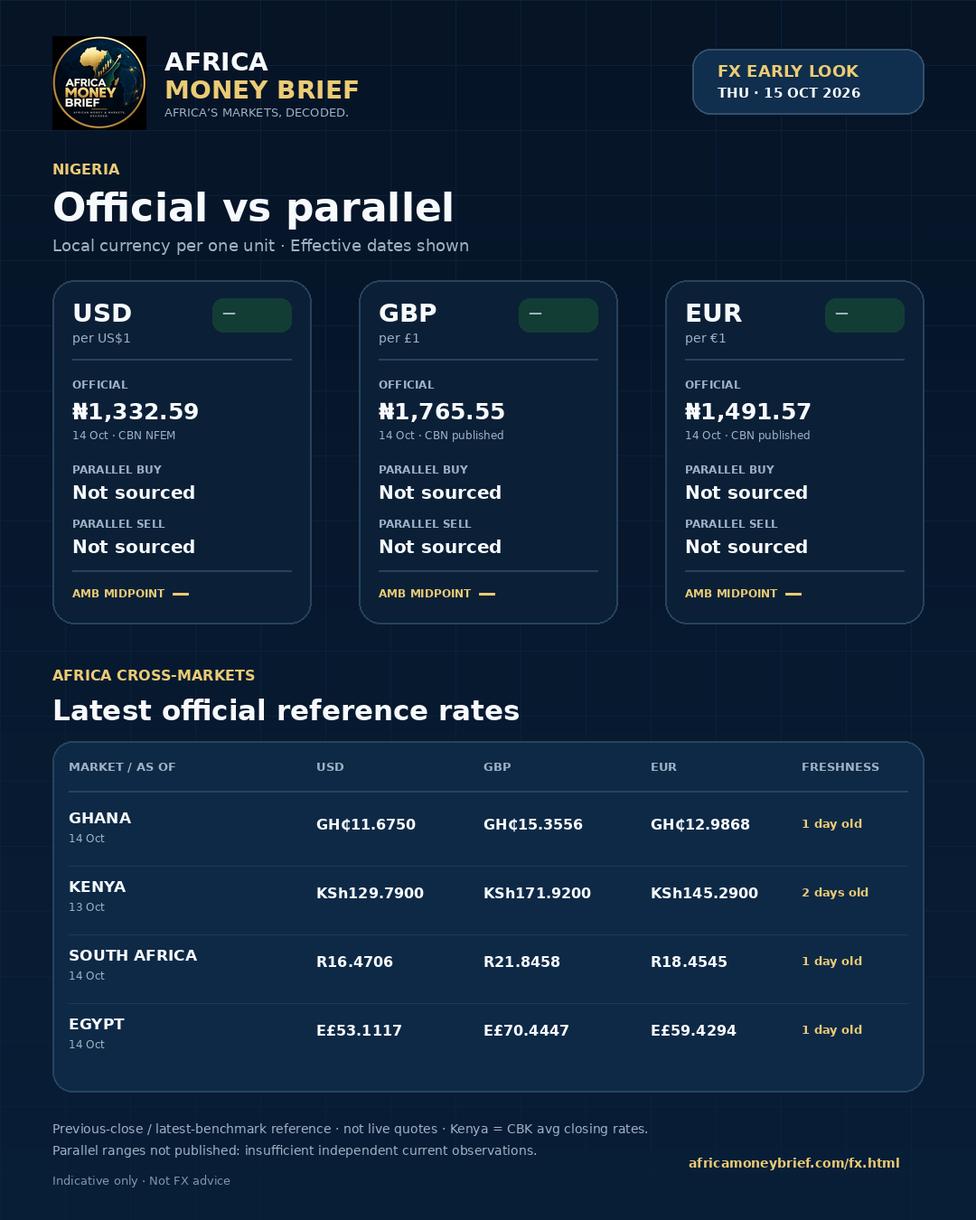
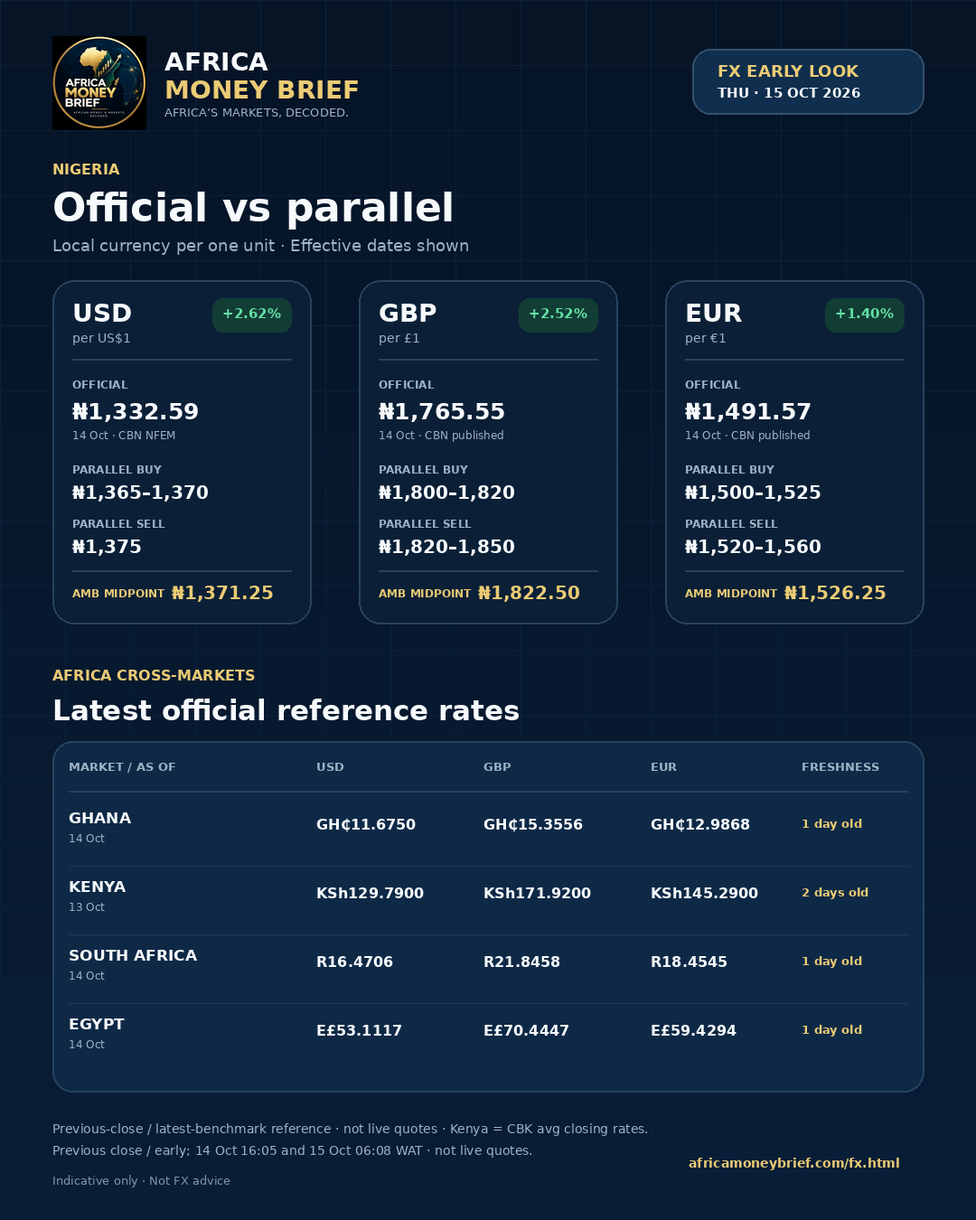
VALIDATED Early Look 2026-10-15

diff --git a/fx.html b/fx.html
@@ -4,11 +4,11 @@
 <script defer src="assets/privacy.js"></script>
 <meta charset="utf-8"><meta name="viewport" content="width=device-width,initial-scale=1"><meta name="description" content="Official and parallel exchange rates for Nigeria plus Ghana, Kenya, South Africa and Egypt, each with its effective date."><meta name="theme-color" content="#061426"><link rel="canonical" href="https://africamoneybrief.com/fx.html"><meta property="og:site_name" content="Africa Money Brief"><meta property="og:title" content="FX Markets | Africa Money Brief"><meta property="og:description" content="Official and parallel exchange rates for Nigeria plus Ghana, Kenya, South Africa and Egypt, each with its effective date."><meta property="og:image" content="https://africamoneybrief.com/assets/africa-money-brief-cover.png"><meta property="og:type" content="website"><meta name="twitter:card" content="summary_large_image"><title>FX Markets | Africa Money Brief</title><link rel="icon" type="image/png" href="assets/africa-money-brief-logo.png"><link rel="stylesheet" href="styles.css"><link rel="stylesheet" href="assets/redesign.css"></head><body><header><a class="logo brand-logo" href="index.html"><img src="assets/africa-money-brief-logo.png" alt="Africa Money Brief logo"><span>AFRICA <em>MONEY BRIEF</em><small>AFRICA’S MARKETS, DECODED.</small></span></a><nav><a class="" href="index.html">HOME</a><a class="active" href="fx.html">FX</a><a class="" href="capital-markets.html">CAPITAL MARKETS</a><a class="" href="money-rates.html">MONEY &amp; RATES</a><a class="" href="real-estate.html">REAL ESTATE</a><a class="" href="data.html">DATA</a><a class="" href="archive.html">ARCHIVE</a><a class="x" href="https://x.com/AMBriefDaily">Follow @AMBriefDaily ↗</a></nav></header>
 <main><section class="subhero"><div><p class="eyebrow">FX MARKETS</p><h1>Currencies.<br><i>Clearly decoded.</i></h1><p class="lead">Official rates, parallel markets, spreads, reserves and the policy forces moving African currencies.</p></div><div class="subhero-brand"><img src="assets/africa-money-brief-logo.png" alt="Africa Money Brief"><span>AFRICA’S MARKETS,<br><b>DECODED.</b></span></div></section>
-<div class="v2"><section class="section" style="padding-bottom:0"><!--AMB:early-latest--><div class="v2"><details id="early-look-2026-10-14" open><summary>14 Oct · Early Look (pre-market)</summary><section class="section"><p class="eyebrow">FX EARLY LOOK · 14 OCT 2026 · PRE-MARKET</p><p class="lead">Previous-close and latest-benchmark reference only; not live opening quotes. Each figure carries its own effective date.</p>
-<div class="tw"><table><thead><tr><th>Currency</th><th>Nigeria official</th><th>Parallel buy / sell</th><th>Premium</th></tr></thead><tbody><tr><td>USD</td><td>₦1,332.97 <small>(13 Oct, CBN selling)</small></td><td>₦1,365–1,375 / ₦1,375–1,390</td><td class="prem">+2.78%</td></tr><tr><td>GBP</td><td>₦1,766.06 <small>(13 Oct, CBN selling)</small></td><td>₦1,810–1,850 / ₦1,835–1,880</td><td class="prem">+3.62%</td></tr><tr><td>EUR</td><td>₦1,492.00 <small>(13 Oct, CBN selling)</small></td><td>₦1,500–1,550 / ₦1,530–1,590</td><td class="prem">+2.21%</td></tr></tbody></table></div>
-<p class="fine">Nigeria parallel-market ranges aggregate multiple independent previous-close/early observations from 13 Oct 16:13-22:06 WAT and 14 Oct 03:00-pre-07:00 WAT. They are not live opening quotes. Material GBP and EUR cross-source dispersion is preserved rather than compressed. Premium = parallel buying midpoint ÷ CBN selling rate - 1.</p>
-<h3 style="margin:22px 0 10px">Africa cross-markets</h3><div class="tw"><table><thead><tr><th>Market</th><th>USD</th><th>GBP</th><th>EUR</th><th>As of</th></tr></thead><tbody><tr><td>Ghana</td><td>GH₵11.7059</td><td>GH₵15.5074</td><td>GH₵13.1024</td><td>13 Oct <span class="chip ok">1 day old</span></td></tr><tr><td>Kenya</td><td>KSh129.7100</td><td>KSh171.6400</td><td>KSh145.0000</td><td>12 Oct <span class="chip warn">2 days old</span></td></tr><tr><td>South Africa</td><td>R16.4601</td><td>R21.7850</td><td>R18.4090</td><td>13 Oct <span class="chip ok">1 day old</span></td></tr><tr><td>Egypt</td><td>E£52.8362</td><td>E£69.9736</td><td>E£59.1078</td><td>13 Oct <span class="chip ok">1 day old</span></td></tr></tbody></table></div>
-<p class="fine">Latest official reference values with effective dates: Ghana mid of Bank of Ghana buy/sell (13 Oct); Kenya CBK commercial-banks’ average closing rates (market close 12 Oct, published 13 Oct; not a standalone buy or sell quote); South Africa SARB weighted-average bank rates at approximately 10:30 on 13 Oct, reverified directly through the SARB HomePageRates endpoint on 14 Oct; Egypt mid of CBE buy/sell (13 Oct). Informational only; not financial or FX advice. The Flagship edition follows after verification.</p></section></details></div><!--/AMB:early-latest--></section><!--AMB:flagship--><section class="section" id="flagship-2026-10-14"><p class="eyebrow">FX FLAGSHIP · EDITION 14 OCT 2026</p><h2 class="h2s" style="margin-top:8px">Nigeria — official vs parallel</h2>
+<div class="v2"><section class="section" style="padding-bottom:0"><!--AMB:early-latest--><div class="v2"><details id="early-look-2026-10-15" open><summary>15 Oct · Early Look (pre-market)</summary><section class="section"><p class="eyebrow">FX EARLY LOOK · 15 OCT 2026 · PRE-MARKET</p><p class="lead">Latest-benchmark reference only; not live opening quotes. Each figure carries its own effective date.</p>
+<div class="tw"><table><thead><tr><th>Currency</th><th>Nigeria official</th><th>Parallel buy / sell</th><th>Premium</th></tr></thead><tbody><tr><td>USD</td><td>₦1,332.59 <small>(14 Oct, CBN selling)</small></td><td>₦1,365–1,370 / ₦1,375–1,375</td><td class="prem">+2.62%</td></tr><tr><td>GBP</td><td>₦1,765.55 <small>(14 Oct, CBN selling)</small></td><td>₦1,800–1,820 / ₦1,820–1,850</td><td class="prem">+2.52%</td></tr><tr><td>EUR</td><td>₦1,491.57 <small>(14 Oct, CBN selling)</small></td><td>₦1,500–1,525 / ₦1,520–1,560</td><td class="prem">+1.40%</td></tr></tbody></table></div>
+<p class="fine">CBN benchmark rates are those of 14 Oct (15 Oct not yet posted; the 14 Oct NFEM average reflects interbank deals only). Nigeria parallel ranges combine an explicitly timestamped 14 Oct previous-close observation with a 15 Oct 06:08 WAT early observation; they are not live opening quotes.</p>
+<h3 style="margin:22px 0 10px">Africa cross-markets</h3><div class="tw"><table><thead><tr><th>Market</th><th>USD</th><th>GBP</th><th>EUR</th><th>As of</th></tr></thead><tbody><tr><td>Ghana</td><td>GH₵11.6750</td><td>GH₵15.3556</td><td>GH₵12.9868</td><td>14 Oct <span class="chip ok">1 day old</span></td></tr><tr><td>Kenya</td><td>KSh129.7900</td><td>KSh171.9200</td><td>KSh145.2900</td><td>13 Oct <span class="chip warn">2 days old</span></td></tr><tr><td>South Africa</td><td>R16.4706</td><td>R21.8458</td><td>R18.4545</td><td>14 Oct <span class="chip ok">1 day old</span></td></tr><tr><td>Egypt</td><td>E£53.1117</td><td>E£70.4447</td><td>E£59.4294</td><td>14 Oct <span class="chip ok">1 day old</span></td></tr></tbody></table></div>
+<p class="fine">Latest official reference values with effective dates: Ghana mid of Bank of Ghana buy/sell (14 Oct); Kenya CBK commercial-banks’ average closing rates (market close 13 Oct; not a standalone buy or sell quote); South Africa SARB weighted-average bank rates at approximately 10:30 on 14 Oct (reverified 15 Oct through HomePageRates); Egypt mid of CBE buy/sell (14 Oct). Informational only; not financial or FX advice. The Flagship edition follows after verification.</p></section></details></div><!--/AMB:early-latest--></section><!--AMB:flagship--><section class="section" id="flagship-2026-10-14"><p class="eyebrow">FX FLAGSHIP · EDITION 14 OCT 2026</p><h2 class="h2s" style="margin-top:8px">Nigeria — official vs parallel</h2>
 <p class="lead">Local currency per one unit of foreign currency. Every figure carries its effective date.</p>
 <div class="panel"><div class="ph"><h3>USD → NGN <small>per US$1</small></h3><span class="prem big">+2.40%</span></div><div class="grid4"><div><small>CBN NFEM rate · 13 Oct</small><b>₦1,332.97</b></div><div><small>Parallel buy</small><b>₦1,355–1,375</b></div><div><small>Parallel sell</small><b>₦1,364–1,390</b></div><div><small>AMB midpoint</small><b class="gold">₦1,371.00</b></div></div><p class='basis'>CBN NFEM rate (volume-weighted; the CBN’s official selling rate for the day), 13 Oct. The premium uses this rate. Source: <a href='https://www.cbn.gov.ng/rates/ExchRateByCurrency.html'>CBN ↗</a></p></div><div class="panel"><div class="ph"><h3>GBP → NGN <small>per £1</small></h3><span class="prem big">+2.83%</span></div><div class="grid4"><div><small>CBN published rate · 13 Oct</small><b>₦1,766.06</b></div><div><small>Parallel buy</small><b>₦1,782–1,850</b></div><div><small>Parallel sell</small><b>₦1,806–1,880</b></div><div><small>AMB midpoint</small><b class="gold">₦1,829.50</b></div></div><p class='basis'>CBN published selling rate, 13 Oct. The premium uses this rate. Source: <a href='https://www.cbn.gov.ng/rates/ExchRateByCurrency.html'>CBN ↗</a></p></div><div class="panel"><div class="ph"><h3>EUR → NGN <small>per €1</small></h3><span class="prem big">+2.08%</span></div><div class="grid4"><div><small>CBN published rate · 13 Oct</small><b>₦1,492.00</b></div><div><small>Parallel buy</small><b>₦1,496–1,550</b></div><div><small>Parallel sell</small><b>₦1,539–1,590</b></div><div><small>AMB midpoint</small><b class="gold">₦1,543.75</b></div></div><p class='basis'>CBN published selling rate, 13 Oct. The premium uses this rate. Source: <a href='https://www.cbn.gov.ng/rates/ExchRateByCurrency.html'>CBN ↗</a></p></div>
 <p class="fine">Nigeria’s 14 Oct public parallel-market observations showed material cross-source dispersion. The displayed ranges preserve multiple same-day observations rather than force a single quote. Aggregated from multiple independent market sources. Premium = parallel buying midpoint ÷ CBN selling rate − 1. Indicative only; not FX advice.</p>
@@ -34,7 +34,11 @@
 <p class="fine">Parallel observations: aggregated from multiple independent market sources; rates vary by location and transaction size. Premium = parallel buying midpoint ÷ CBN selling rate − 1. Indicative only; not FX advice.</p>
 <h2 class="h2s">Africa cross-markets — official rates</h2><div class="tw"><table><thead><tr><th>Market</th><th>USD</th><th>GBP</th><th>EUR</th><th>As of</th></tr></thead><tbody><tr><td>Ghana</td><td>GH₵11.7800</td><td>GH₵15.5585</td><td>GH₵13.1824</td><td>8 Oct <span class="chip ok">1 day old</span></td></tr><tr><td>Kenya</td><td>KSh129.9100</td><td>KSh172.0400</td><td>KSh145.9200</td><td>9 Oct <span class="chip ok">Today</span></td></tr><tr><td>South Africa</td><td>R16.6784</td><td>R22.0287</td><td>R18.6760</td><td>8 Oct <span class="chip ok">1 day old</span></td></tr><tr><td>Egypt</td><td>E£52.3902</td><td>E£69.2442</td><td>E£58.6294</td><td>7 Oct <span class="chip warn">2 days old</span></td></tr></tbody></table></div>
 <p class="fine">Mid-market reference values: Ghana mid of Bank of Ghana buy/sell; Kenya CBK indicative; South Africa and Egypt mid of published buy/sell. Egypt’s latest retrievable table is 7 Oct. Primary sources: <a href="https://www.cbn.gov.ng/rates/ExchRateByCurrency.html">CBN</a> · <a href="https://www.bog.gov.gh/treasury-and-the-markets/daily-interbank-fx-rates/">Bank of Ghana</a> · <a href="https://www.centralbank.go.ke/cbk-indicative-rates/">CBK</a> · <a href="https://www.resbank.co.za/en/home/what-we-do/statistics/key-statistics/current-market-rates">SARB</a> · <a href="https://www.cbe.org.eg/en/economic-research/statistics/cbe-exchange-rates">CBE</a>.</p>
-<div class="btns"><a class="btn" href="data/fx/2026-10-09.json">Download this edition (JSON)</a><a class="ghost" href="data/fx/series.csv">CSV</a><a class="ghost" href="archive.html">All editions</a></div></section></div></details><details id="early-look-2026-10-13"><summary>13 Oct · Early Look (pre-market)</summary><section class="section"><p class="eyebrow">FX EARLY LOOK · 13 OCT 2026 · PRE-MARKET</p><p class="lead">Previous-close and overnight reference only; not live opening quotes. Each figure carries its own effective date.</p>
+<div class="btns"><a class="btn" href="data/fx/2026-10-09.json">Download this edition (JSON)</a><a class="ghost" href="data/fx/series.csv">CSV</a><a class="ghost" href="archive.html">All editions</a></div></section></div></details><details id="early-look-2026-10-14"><summary>14 Oct · Early Look (pre-market)</summary><section class="section"><p class="eyebrow">FX EARLY LOOK · 14 OCT 2026 · PRE-MARKET</p><p class="lead">Previous-close and latest-benchmark reference only; not live opening quotes. Each figure carries its own effective date.</p>
+<div class="tw"><table><thead><tr><th>Currency</th><th>Nigeria official</th><th>Parallel buy / sell</th><th>Premium</th></tr></thead><tbody><tr><td>USD</td><td>₦1,332.97 <small>(13 Oct, CBN selling)</small></td><td>₦1,365–1,375 / ₦1,375–1,390</td><td class="prem">+2.78%</td></tr><tr><td>GBP</td><td>₦1,766.06 <small>(13 Oct, CBN selling)</small></td><td>₦1,810–1,850 / ₦1,835–1,880</td><td class="prem">+3.62%</td></tr><tr><td>EUR</td><td>₦1,492.00 <small>(13 Oct, CBN selling)</small></td><td>₦1,500–1,550 / ₦1,530–1,590</td><td class="prem">+2.21%</td></tr></tbody></table></div>
+<p class="fine">Nigeria parallel-market ranges aggregate multiple independent previous-close/early observations from 13 Oct 16:13-22:06 WAT and 14 Oct 03:00-pre-07:00 WAT. They are not live opening quotes. Material GBP and EUR cross-source dispersion is preserved rather than compressed. Premium = parallel buying midpoint ÷ CBN selling rate - 1.</p>
+<h3 style="margin:22px 0 10px">Africa cross-markets</h3><div class="tw"><table><thead><tr><th>Market</th><th>USD</th><th>GBP</th><th>EUR</th><th>As of</th></tr></thead><tbody><tr><td>Ghana</td><td>GH₵11.7059</td><td>GH₵15.5074</td><td>GH₵13.1024</td><td>13 Oct <span class="chip ok">1 day old</span></td></tr><tr><td>Kenya</td><td>KSh129.7100</td><td>KSh171.6400</td><td>KSh145.0000</td><td>12 Oct <span class="chip warn">2 days old</span></td></tr><tr><td>South Africa</td><td>R16.4601</td><td>R21.7850</td><td>R18.4090</td><td>13 Oct <span class="chip ok">1 day old</span></td></tr><tr><td>Egypt</td><td>E£52.8362</td><td>E£69.9736</td><td>E£59.1078</td><td>13 Oct <span class="chip ok">1 day old</span></td></tr></tbody></table></div>
+<p class="fine">Latest official reference values with effective dates: Ghana mid of Bank of Ghana buy/sell (13 Oct); Kenya CBK commercial-banks’ average closing rates (market close 12 Oct, published 13 Oct; not a standalone buy or sell quote); South Africa SARB weighted-average bank rates at approximately 10:30 on 13 Oct, reverified directly through the SARB HomePageRates endpoint on 14 Oct; Egypt mid of CBE buy/sell (13 Oct). Informational only; not financial or FX advice. The Flagship edition follows after verification.</p></section></details><details id="early-look-2026-10-13"><summary>13 Oct · Early Look (pre-market)</summary><section class="section"><p class="eyebrow">FX EARLY LOOK · 13 OCT 2026 · PRE-MARKET</p><p class="lead">Previous-close and overnight reference only; not live opening quotes. Each figure carries its own effective date.</p>
 <div class="tw"><table><thead><tr><th>Currency</th><th>Nigeria official</th><th>Parallel buy / sell</th><th>Premium</th></tr></thead><tbody><tr><td>USD</td><td>₦1,332.10 <small>(12 Oct, CBN selling)</small></td><td>₦1,365–1,365 / ₦1,373–1,375</td><td class="prem">+2.47%</td></tr><tr><td>GBP</td><td>₦1,762.63 <small>(12 Oct, CBN selling)</small></td><td>₦1,810–1,820 / ₦1,840–1,850</td><td class="prem">+2.97%</td></tr><tr><td>EUR</td><td>₦1,489.15 <small>(12 Oct, CBN selling)</small></td><td>₦1,520–1,525 / ₦1,545–1,560</td><td class="prem">+2.24%</td></tr></tbody></table></div>
 <p class="fine">Premium = parallel buying midpoint ÷ CBN selling rate − 1. CBN rates are the 12 Oct published selling rates; parallel observations (13 Oct early morning): aggregated from multiple independent market sources; indicative only.</p>
 <h3 style="margin:22px 0 10px">Africa cross-markets</h3><div class="tw"><table><thead><tr><th>Market</th><th>USD</th><th>GBP</th><th>EUR</th><th>As of</th></tr></thead><tbody><tr><td>Ghana</td><td>GH₵11.7700</td><td>GH₵15.5417</td><td>GH₵13.1325</td><td>12 Oct <span class="chip ok">1 day old</span></td></tr><tr><td>Kenya</td><td>KSh129.7500</td><td>KSh171.6700</td><td>KSh145.3200</td><td>12 Oct <span class="chip ok">1 day old</span></td></tr><tr><td>South Africa</td><td>R16.5423</td><td>R21.9020</td><td>R18.5141</td><td>12 Oct <span class="chip ok">1 day old</span></td></tr><tr><td>Egypt</td><td>E£52.3902</td><td>E£69.2442</td><td>E£58.6299</td><td>7 Oct <span class="chip warn">6 days old</span></td></tr></tbody></table></div>

diff --git a/archive.html b/archive.html
@@ -3,5 +3,5 @@
 <link rel="stylesheet" href="assets/privacy.css">
 <script defer src="assets/privacy.js"></script>
 <meta charset="utf-8"><meta name="viewport" content="width=device-width,initial-scale=1"><meta name="description" content="Every Africa Money Brief FX edition, with links to the page and dataset."><meta name="theme-color" content="#061426"><link rel="canonical" href="https://africamoneybrief.com/archive.html"><meta property="og:site_name" content="Africa Money Brief"><meta property="og:title" content="Archive | Africa Money Brief"><meta property="og:description" content="Every Africa Money Brief FX edition, with links to the page and dataset."><meta property="og:image" content="https://africamoneybrief.com/assets/africa-money-brief-cover.png"><meta property="og:type" content="website"><meta name="twitter:card" content="summary_large_image"><title>Archive | Africa Money Brief</title><link rel="icon" type="image/png" href="assets/africa-money-brief-logo.png"><link rel="stylesheet" href="styles.css"><link rel="stylesheet" href="assets/redesign.css"></head><body><header><a class="logo brand-logo" href="index.html"><img src="assets/africa-money-brief-logo.png" alt="Africa Money Brief logo"><span>AFRICA <em>MONEY BRIEF</em><small>AFRICA’S MARKETS, DECODED.</small></span></a><nav><a class="" href="index.html">HOME</a><a class="" href="fx.html">FX</a><a class="" href="capital-markets.html">CAPITAL MARKETS</a><a class="" href="money-rates.html">MONEY &amp; RATES</a><a class="" href="real-estate.html">REAL ESTATE</a><a class="" href="data.html">DATA</a><a class="active" href="archive.html">ARCHIVE</a><a class="x" href="https://x.com/AMBriefDaily">Follow @AMBriefDaily ↗</a></nav></header>
-<main><section class="subhero"><div><p class="eyebrow">ARCHIVE</p><h1>Every edition,<br><i>one place.</i></h1><p class="lead">Filter by type. Editions with a structured dataset link to it; older ones are page-only.</p></div><div class="subhero-brand"><img src="assets/africa-money-brief-logo.png" alt="Africa Money Brief"><span>AFRICA’S MARKETS,<br><b>DECODED.</b></span></div></section><div class="v2"><section class="section"><div class="filters" role="group" aria-label="Filter editions"><button class="on" data-f="all">All</button><button data-f="Flagship">FX Flagship</button><button data-f="Early Look">Early Look</button></div><div><!--AMB:archive-list--><div class="ai" data-t="Flagship"><span class="ad">14 Oct 2026</span><div><b>FX Flagship</b><br><small>Structured dataset</small></div><div class="al"><a href="fx.html#flagship-2026-10-14">View</a><a href="data/fx/2026-10-14.json">JSON</a></div></div><div class="ai" data-t="Early Look"><span class="ad">14 Oct 2026</span><div><b>Early Look</b><br><small>Structured dataset</small></div><div class="al"><a href="fx.html#early-look-2026-10-14">View</a><a href="data/fx/early-2026-10-14.json">JSON</a></div></div><div class="ai" data-t="Flagship"><span class="ad">13 Oct 2026</span><div><b>FX Flagship</b><br><small>Structured dataset</small></div><div class="al"><a href="fx.html#flagship-2026-10-13">View</a><a href="data/fx/2026-10-13.json">JSON</a></div></div><div class="ai" data-t="Early Look"><span class="ad">13 Oct 2026</span><div><b>Early Look</b><br><small>Structured dataset</small></div><div class="al"><a href="fx.html#early-look-2026-10-13">View</a><a href="data/fx/early-2026-10-13.json">JSON</a></div></div><div class="ai" data-t="Flagship"><span class="ad">12 Oct 2026</span><div><b>FX Flagship</b><br><small>Structured dataset</small></div><div class="al"><a href="fx.html#flagship-2026-10-12">View</a><a href="data/fx/2026-10-12.json">JSON</a></div></div><div class="ai" data-t="Flagship"><span class="ad">9 Oct 2026</span><div><b>FX Flagship (corrected)</b><br><small>Structured dataset</small></div><div class="al"><a href="fx.html#flagship-2026-10-09">View</a><a href="data/fx/2026-10-09.json">JSON</a></div></div><div class="ai" data-t="Early Look"><span class="ad">9 Oct 2026</span><div><b>Early Look</b><br><small>Page only · dataset not published</small></div><div class="al"><a href="fx.html#early-look-2026-10-09">View</a></div></div><div class="ai" data-t="Flagship"><span class="ad">8 Oct 2026</span><div><b>FX Flagship</b><br><small>Structured dataset</small></div><div class="al"><a href="fx.html#fx-flagship-2026-10-08">View</a><a href="data/2026-10-08-africa-fx-flagship.json">JSON</a></div></div><div class="ai" data-t="Early Look"><span class="ad">8 Oct 2026</span><div><b>Early Look</b><br><small>Page only · dataset not published</small></div><div class="al"><a href="fx.html#early-look-2026-10-08">View</a></div></div><div class="ai" data-t="Flagship"><span class="ad">7 Oct 2026</span><div><b>FX Flagship</b><br><small>Page only · dataset not published</small></div><div class="al"><a href="archive/2026-10-07-fx-flagship.html">View</a></div></div><!--/AMB:archive-list--></div><p class="fine">Newest first. <a href="briefings.html" style="color:var(--gold)">Briefings page</a></p></section></div>
+<main><section class="subhero"><div><p class="eyebrow">ARCHIVE</p><h1>Every edition,<br><i>one place.</i></h1><p class="lead">Filter by type. Editions with a structured dataset link to it; older ones are page-only.</p></div><div class="subhero-brand"><img src="assets/africa-money-brief-logo.png" alt="Africa Money Brief"><span>AFRICA’S MARKETS,<br><b>DECODED.</b></span></div></section><div class="v2"><section class="section"><div class="filters" role="group" aria-label="Filter editions"><button class="on" data-f="all">All</button><button data-f="Flagship">FX Flagship</button><button data-f="Early Look">Early Look</button></div><div><!--AMB:archive-list--><div class="ai" data-t="Early Look"><span class="ad">15 Oct 2026</span><div><b>Early Look</b><br><small>Structured dataset</small></div><div class="al"><a href="fx.html#early-look-2026-10-15">View</a><a href="data/fx/early-2026-10-15.json">JSON</a></div></div><div class="ai" data-t="Flagship"><span class="ad">14 Oct 2026</span><div><b>FX Flagship</b><br><small>Structured dataset</small></div><div class="al"><a href="fx.html#flagship-2026-10-14">View</a><a href="data/fx/2026-10-14.json">JSON</a></div></div><div class="ai" data-t="Early Look"><span class="ad">14 Oct 2026</span><div><b>Early Look</b><br><small>Structured dataset</small></div><div class="al"><a href="fx.html#early-look-2026-10-14">View</a><a href="data/fx/early-2026-10-14.json">JSON</a></div></div><div class="ai" data-t="Flagship"><span class="ad">13 Oct 2026</span><div><b>FX Flagship</b><br><small>Structured dataset</small></div><div class="al"><a href="fx.html#flagship-2026-10-13">View</a><a href="data/fx/2026-10-13.json">JSON</a></div></div><div class="ai" data-t="Early Look"><span class="ad">13 Oct 2026</span><div><b>Early Look</b><br><small>Structured dataset</small></div><div class="al"><a href="fx.html#early-look-2026-10-13">View</a><a href="data/fx/early-2026-10-13.json">JSON</a></div></div><div class="ai" data-t="Flagship"><span class="ad">12 Oct 2026</span><div><b>FX Flagship</b><br><small>Structured dataset</small></div><div class="al"><a href="fx.html#flagship-2026-10-12">View</a><a href="data/fx/2026-10-12.json">JSON</a></div></div><div class="ai" data-t="Flagship"><span class="ad">9 Oct 2026</span><div><b>FX Flagship (corrected)</b><br><small>Structured dataset</small></div><div class="al"><a href="fx.html#flagship-2026-10-09">View</a><a href="data/fx/2026-10-09.json">JSON</a></div></div><div class="ai" data-t="Early Look"><span class="ad">9 Oct 2026</span><div><b>Early Look</b><br><small>Page only · dataset not published</small></div><div class="al"><a href="fx.html#early-look-2026-10-09">View</a></div></div><div class="ai" data-t="Flagship"><span class="ad">8 Oct 2026</span><div><b>FX Flagship</b><br><small>Structured dataset</small></div><div class="al"><a href="fx.html#fx-flagship-2026-10-08">View</a><a href="data/2026-10-08-africa-fx-flagship.json">JSON</a></div></div><div class="ai" data-t="Early Look"><span class="ad">8 Oct 2026</span><div><b>Early Look</b><br><small>Page only · dataset not published</small></div><div class="al"><a href="fx.html#early-look-2026-10-08">View</a></div></div><div class="ai" data-t="Flagship"><span class="ad">7 Oct 2026</span><div><b>FX Flagship</b><br><small>Page only · dataset not published</small></div><div class="al"><a href="archive/2026-10-07-fx-flagship.html">View</a></div></div><!--/AMB:archive-list--></div><p class="fine">Newest first. <a href="briefings.html" style="color:var(--gold)">Briefings page</a></p></section></div>
 <script>document.querySelectorAll('.filters button').forEach(function(b){b.onclick=function(){document.querySelectorAll('.filters button').forEach(function(x){x.classList.remove('on')});b.classList.add('on');document.querySelectorAll('.ai').forEach(function(a){a.style.display=(b.dataset.f=='all'||a.dataset.t==b.dataset.f)?'':'none'})}})</script></main><footer><div class="logo footer-logo"><img src="assets/africa-money-brief-logo.png" alt="Africa Money Brief logo"><span>AFRICA <em>MONEY BRIEF</em></span></div><p>FX • CAPITAL MARKETS • MONEY & RATES • REAL ESTATE • ECONOMY</p><div class="footerlinks"><a href="mailto:connect@ambriefdaily.com">Contact: connect@ambriefdaily.com</a><a href="privacy.html">Privacy &amp; Cookies</a><button type="button" class="amb-cookie-settings" data-amb-cookie-settings>Cookie settings</button><a href="methodology.html">Methodology</a><a href="briefings.html">Briefings</a><a href="about.html">About</a><a href="https://x.com/AMBriefDaily">@AMBriefDaily ↗</a></div></footer></body></html>

diff --git a/index.html b/index.html
@@ -8,7 +8,7 @@
 <section class="hero"><div><p class="eyebrow">AFRICA’S MARKETS, MADE CLEAR</p><h1>Know the rates.<br><i>Understand the move.</i></h1><p class="lead">African FX benchmarks, central-bank signals and market context — concise enough for your morning, rigorous enough for your decisions.</p><div class="actions"><a class="btn" href="fx.html">Today’s FX brief →</a><a class="ghost" href="https://x.com/AMBriefDaily">Follow on X</a></div><div class="trust">✓ Source-aware &nbsp;&nbsp; ✓ Time-stamped &nbsp;&nbsp; ✓ Official vs. market clearly labeled</div></div>
 <!--AMB:board--><div class="board"><div class="boardtop"><span>NIGERIA · PARALLEL BUY MIDPOINT</span><span class="live">EDITION 14 OCT</span></div><div id="mini"><div class="r"><div>USD/NGN<small>CBN NFEM ₦1,332.97 · 13 Oct</small></div><strong>₦1,365.00 <span class="prem" style="color:#64e2a6;font-size:14px">+2.40%</span></strong></div><div class="r"><div>GBP/NGN<small>CBN published ₦1,766.06 · 13 Oct</small></div><strong>₦1,816.00 <span class="prem" style="color:#64e2a6;font-size:14px">+2.83%</span></strong></div><div class="r"><div>EUR/NGN<small>CBN published ₦1,492.00 · 13 Oct</small></div><strong>₦1,523.00 <span class="prem" style="color:#64e2a6;font-size:14px">+2.08%</span></strong></div></div><p id="verified">Premium = parallel buying midpoint ÷ CBN selling rate − 1. Edition 14 Oct. Indicative only.</p></div><!--/AMB:board--></section>
 
-<!--AMB:early-home--><div class="v2"><section class="section"><div class="heading"><div><p class="eyebrow">TODAY'S FX EARLY LOOK · 14 OCT 2026</p><h2>Previous close and latest benchmarks</h2></div><p>Pre-market reference; not live opening quotes. <a href="fx.html#early-look-2026-10-14" style="color:var(--gold)">Full Early Look →</a></p></div><div class="dashgrid"><div class="metric"><small>USD / NGN · 13 Oct</small><strong>+2.78%</strong><span>CBN ₦1,332.97 · Buy ₦1,365–₦1,375 · Sell ₦1,375–₦1,390</span></div><div class="metric"><small>GBP / NGN · 13 Oct</small><strong>+3.62%</strong><span>CBN ₦1,766.06 · Buy ₦1,810–₦1,850 · Sell ₦1,835–₦1,880</span></div><div class="metric"><small>EUR / NGN · 13 Oct</small><strong>+2.21%</strong><span>CBN ₦1,492.00 · Buy ₦1,500–₦1,550 · Sell ₦1,530–₦1,590</span></div><div class="metric"><small>AFRICA CROSS-MARKETS</small><strong>4 markets</strong><span>GH 13 Oct · KE 12 Oct · ZA 13 Oct · EG 13 Oct</span></div></div><p class="fine">Nigeria parallel ranges: previous close / early; aggregated from multiple independent market sources. Effective dates are shown in the full edition. Indicative only; not FX advice.</p></section></div><!--/AMB:early-home--><div class="mr"><section class="section" id="calc"><div class="heading"><div><p class="eyebrow">ESTIMATE EARNINGS</p><h2>What would my money earn?</h2></div><p>Pick a Treasury bill or deposit, enter an amount, and see the simple interest. <a href="money-rates.html" style="color:var(--gold)">Compare all rates →</a></p></div><div class="calc" id="amb-calc"><div><div class="f"><label for="cp">PRODUCT</label><select id="cp"></select></div><div class="f"><label for="ca">AMOUNT</label><input id="ca" type="number" inputmode="decimal" min="0" step="1000" value="10000000"></div><div class="f" id="cmw"><label for="cm">MONTHS HELD</label><input id="cm" type="number" min="1" max="12" step="1" value="12"></div></div>
+<!--AMB:early-home--><div class="v2"><section class="section"><div class="heading"><div><p class="eyebrow">TODAY'S FX EARLY LOOK · 15 OCT 2026</p><h2>Previous close and latest benchmarks</h2></div><p>Pre-market reference; not live opening quotes. <a href="fx.html#early-look-2026-10-15" style="color:var(--gold)">Full Early Look →</a></p></div><div class="dashgrid"><div class="metric"><small>USD / NGN · 14 Oct</small><strong>+2.62%</strong><span>CBN ₦1,332.59 · Buy ₦1,365–₦1,370 · Sell ₦1,375–₦1,375</span></div><div class="metric"><small>GBP / NGN · 14 Oct</small><strong>+2.52%</strong><span>CBN ₦1,765.55 · Buy ₦1,800–₦1,820 · Sell ₦1,820–₦1,850</span></div><div class="metric"><small>EUR / NGN · 14 Oct</small><strong>+1.40%</strong><span>CBN ₦1,491.57 · Buy ₦1,500–₦1,525 · Sell ₦1,520–₦1,560</span></div><div class="metric"><small>AFRICA CROSS-MARKETS</small><strong>4 markets</strong><span>GH 14 Oct · KE 13 Oct · ZA 14 Oct · EG 14 Oct</span></div></div><p class="fine">Nigeria parallel ranges: previous close / early; aggregated from multiple independent market sources. Effective dates are shown in the full edition. Indicative only; not FX advice.</p></section></div><!--/AMB:early-home--><div class="mr"><section class="section" id="calc"><div class="heading"><div><p class="eyebrow">ESTIMATE EARNINGS</p><h2>What would my money earn?</h2></div><p>Pick a Treasury bill or deposit, enter an amount, and see the simple interest. <a href="money-rates.html" style="color:var(--gold)">Compare all rates →</a></p></div><div class="calc" id="amb-calc"><div><div class="f"><label for="cp">PRODUCT</label><select id="cp"></select></div><div class="f"><label for="ca">AMOUNT</label><input id="ca" type="number" inputmode="decimal" min="0" step="1000" value="10000000"></div><div class="f" id="cmw"><label for="cm">MONTHS HELD</label><input id="cm" type="number" min="1" max="12" step="1" value="12"></div></div>
 <div class="res"><span id="cl">Estimated interest</span><strong id="ci">—</strong><span id="cs">Loading rates…</span><span style="font-size:12px;color:#8ba0b3">Indicative gross interest before tax, fees and exchange-rate changes. Source dates and older-data warnings appear above. Tiered bank rates depend on the entered balance; banking averages are not offers. Bills are held to maturity; deposit rates are assumed unchanged.</span></div></div>
 <script src="assets/calc.js?v=20261009-tiers"></script></section></div><!--AMB:glance--><div class="v2"><section class="section"><div class="heading"><div><p class="eyebrow">TODAY AT A GLANCE</p><h2>Premium: parallel buy vs CBN selling rate</h2></div><p>Edition 14 Oct 2026. CBN NFEM rate for USD; GBP and EUR as dated. <a href="fx.html" style="color:var(--gold)">Full FX brief →</a></p></div><div class="dashgrid"><div class="metric"><small>USD / NGN</small><strong>+2.40%</strong><span>Parallel buy mid ₦1,365.00 vs CBN ₦1,332.97</span></div><div class="metric"><small>GBP / NGN</small><strong>+2.83%</strong><span>Parallel buy mid ₦1,816.00 vs CBN ₦1,766.06</span></div><div class="metric"><small>EUR / NGN</small><strong>+2.08%</strong><span>Parallel buy mid ₦1,523.00 vs CBN ₦1,492.00</span></div><div class="metric"><small>Coverage</small><strong>5 markets</strong><span>NG · GH · KE · ZA · EG</span></div></div></section></div><!--/AMB:glance--><section class="section market-portals"><div class="heading"><div><p class="eyebrow">EXPLORE AMB</p><h2>Four markets. One African lens.</h2></div><p>Move from the daily headline to the market that matters to you.</p></div><div class="portalgrid">
 <a class="portal fxp" href="fx.html"><span class="portal-icon">FX</span><small>CURRENCIES</small><h3>FX Markets</h3><p>Official rates, parallel markets, spreads, reserves and currency policy.</p><b>Open FX →</b></a>

diff --git a/tools/render_fx_social_text.py b/tools/render_fx_social_text.py
@@ -198,7 +198,7 @@ def render_early(data):
             )
         lines += [
             "",
-            "Aggregated from multiple independent market sources observed from 13 Oct 16:13–22:06 WAT and 14 Oct 03:00–pre-07:00 WAT. "
+            f"Aggregated from multiple independent market sources. {n['USD']['parallel_observation_label']}. "
             "GBP and EUR show material cross-source dispersion; the ranges preserve it rather than force a single quote.",
             "",
         ]
@@ -232,8 +232,8 @@ def render_early(data):
         return None
 
     def move(name, label):
-        ref = baseline(name)
-        if not ref:
+        ref = prior.get("markets", {}).get(name)
+        if not ref or m[name]["asof"] <= ref["asof"]:
             return ""
         change = pct(m[name]["rates"]["USD"], ref["rates"]["USD"])
         return f" USD/{label} {change:+.2f}% versus the {date_label(ref['asof'])} reference."
@@ -242,7 +242,7 @@ def render_early(data):
     gh_move = pct(m["Ghana"]["rates"]["USD"], gh["rates"]["USD"]) if gh else 0
     lines += row("Ghana", "🇬🇭", "GH₵", f"Bank of Ghana interbank mid-rates; the cedi {'firmed' if gh_move < 0 else 'softened'} {abs(gh_move):.2f}% against the US dollar versus the {date_label(gh['asof'])} reference.")
     lines += row("Kenya", "🇰🇪", "KSh", "CBK commercial-banks’ average closing rates (not a standalone buy or sell quote)." + move("Kenya", "KES"))
-    lines += row("South Africa", "🇿🇦", "R", f"SARB weighted-average bank rates at about 10:30 on {date_label(m['South Africa']['asof'])} (latest available benchmark; SARB endpoint could not be re-read this morning)." + move("South Africa", "ZAR"))
+    lines += row("South Africa", "🇿🇦", "R", f"SARB weighted-average bank rates at about 10:30 on {date_label(m['South Africa']['asof'])}; reverified through HomePageRates." + move("South Africa", "ZAR"))
     lines += row("Egypt", "🇪🇬", "E£", "CBE buy/sell mid-rates." + move("Egypt", "EGP"))
     lines += [
         "SOURCES & METHODOLOGY",

diff --git a/handoff/fx/2026-10-15-early.md b/handoff/fx/2026-10-15-early.md
@@ -1,55 +1,38 @@
-# Early Look 2026-10-15 — handoff note
+# Early Look 2026-10-15 — validator handoff note
 
-**Status: PREPARED — NOT PUBLISHED**
-**Flags: BLOCKED_SOURCE (Nigeria parallel — only one independent current observation; SARB endpoint unreachable)**
+**Status: VALIDATED — READY FOR WEBSITE-FIRST PUBLICATION**
 
-- Branch: `staging/claude-fx` (synchronised with `main` @ 6300234 before preparation)
-- Commit SHA: tip commit "PREPARED Early Look 2026-10-15" (a commit cannot contain its own hash; see run summary / `git log -1`)
-- Verification timestamp: 2026-10-15 06:25 WAT (sources fetched 06:12–06:25 WAT)
+- Prepared candidate: `staging/claude-fx` commit `16bd742` (`PREPARED Early Look 2026-10-15`).
+- Independent validation completed 15 Oct 2026 at 07:15 WAT.
+- Corrections: restored corroborated Nigeria previous-close/early ranges and premiums, reverified SARB through HomePageRates, and removed stale hard-coded observation wording from the text renderer.
 
-## Files
-- `data/fx/early-2026-10-15.json`
-- `assets/social/AMB_FX_Early_Look_2026-10-15.png` (1080×1350, labelled FX EARLY LOOK)
-- `assets/social/AMB_FX_Early_Look_2026-10-15.txt`
-- Tool change: `tools/render_fx_social_text.py` — the SARB note and the parallel-attribution paragraph were hard-coded to the 14 Oct wording; they are now driven by the dataset (SARB date; parallel paragraph only when ranges exist).
+## Authoritative reference checks
 
-## Official sources and effective dates
-| Market | Source | Effective | Label |
-|---|---|---|---|
-| Nigeria | CBN https://www.cbn.gov.ng/rates/ExchRateByCurrency.html (/api/GetAllExchangeRates, /api/GetAllNFEM_RatesGRAPH) | 14 Oct 2026 (15 Oct not yet posted) | latest available benchmark |
-| Ghana | Bank of Ghana https://www.bog.gov.gh/treasury-and-the-markets/daily-interbank-fx-rates/ | 14 Oct 2026 | latest dated Daily Interbank table |
-| Kenya | CBK https://www.centralbank.go.ke/cbk-indicative-rates/ (Daily KES PDF, first listed file) | Market close 13 Oct 2026 | commercial-banks' average closing rates, not a buy/sell quote |
-| South Africa | SARB (HomePageRates) | 14 Oct 2026 ~10:30 | carried forward (below) |
-| Egypt | CBE https://www.cbe.org.eg/en/economic-research/statistics/cbe-exchange-rates | 14 Oct 2026 ("Last Updated: 14 Oct 2026") | latest available benchmark |
+| Market | Effective | Final USD / GBP / EUR | Validation |
+|---|---:|---|---|
+| Nigeria | 14 Oct | 1332.5893 / 1765.5476 / 1491.5672 | CBN `/api/GetAllExchangeRates`; USD is the NFEM selling benchmark |
+| Ghana | 14 Oct | 11.6750 / 15.3556 / 12.9868 | Bank of Ghana buy/sell table; mids recomputed |
+| Kenya | 13 Oct close | 129.79 / 171.92 / 145.29 | CBK Daily KES; commercial-banks’ average closing rates, not standalone buy/sell quotes |
+| South Africa | 14 Oct | 16.4706 / 21.8458 / 18.4545 | SARB `HomePageRates`, reverified 15 Oct before the new morning fixing |
+| Egypt | 14 Oct | 53.1117 / 70.4447 / 59.4294 | CBE buy/sell mids recomputed from the 14 Oct official table |
 
-## Raw values and calculations
-- Nigeria (selling, 14 Oct): USD 1,332.5893 (NFEM weighted average; 0 NFEM deals, 179 interbank deals); GBP 1,765.5476; EUR 1,491.5672. Change vs 13 Oct (1,332.9728 / 1,766.0557 / 1,491.9965): −0.03% each.
-- Ghana (buy/sell → mid): USD 11.6692/11.6808 → 11.6750; GBP 15.3473/15.3638 → 15.3556 (15.35555 half-up); EUR 12.9809/12.9926 → 12.9868 (12.98675 half-up). USD vs 13 Oct 11.7059: −0.26%.
-- Kenya (CBK avg closing, 13 Oct, read from the PDF image): USD 129.79; GBP 171.92; EUR 145.29. vs 12 Oct close (129.71): +0.06%.
-- Egypt (buy/sell → mid, half-up 4 dp): USD 53.0417/53.1817 → 53.1117; GBP 70.3439/70.5455 → 70.4447; EUR 59.3484/59.5103 → 59.42935 → 59.4294. USD vs 13 Oct 52.8362: +0.52%.
-- South Africa: USD 16.4706; GBP 21.8458; EUR 18.4545 (carried). USD vs 13 Oct 16.4601: +0.06%.
+## Nigeria previous-close / early controls
 
-## Carried-forward values
-- **South Africa (14 Oct ~10:30)**: `custom.resbank.co.za` is refused by this environment's egress proxy (403) and the public page is behind a WAF. Values are those independently verified directly through HomePageRates in the 14 Oct Flagship validation (SARB 14 Oct). The 15 Oct figure does not exist until ~10:30. Labelled 14 Oct. **Codex: re-read HomePageRates if reachable.**
+Public wording remains: **“Aggregated from multiple independent market sources.”** The ranges combine one source observed 14 Oct at 16:05 WAT with an independent early observation at 06:08 WAT on 15 Oct. They are explicitly labelled as not-live opening quotes.
 
-## Nigeria parallel — NOT PUBLISHED (BLOCKED_SOURCE)
-Only one independent source was retrievable with a current timestamp; most others are blocked by the proxy or surfaced only as search snippets (not verifiable). No range, midpoint or premium is published; the dataset omits them and the renderers show "Not sourced". A same-source earlier snapshot is not an independent observation.
-- **Source A** — updated 15 Oct 2026 06:08 WAT (current early observation): USD buy 1,370 / sell 1,375; GBP buy 1,800 / sell 1,820; EUR buy 1,500 / sell 1,520.
-- **Source B** — dated 12 Oct 2026 (no time): EUR buy 1,520 / sell 1,560. Excluded: three days old.
-- Search-snippet-only (unverified, unused): 14 Oct USD roughly 1,350–1,390 (buy side spread wide); 14 Oct GBP 1,800/1,820 and 1,850/1,880; EUR 1,500 (15 Oct 00:06).
-- Illustration only (not for publication), Source A alone: USD buy 1,370 / 1,332.5893 − 1 = +2.80%; GBP 1,800/1,765.5476 − 1 = +1.95%; EUR 1,500/1,491.5672 − 1 = +0.57%. If Codex verifies a second independent observation, premium = parallel buy midpoint ÷ CBN selling rate − 1.
+| Pair | Buy range | Sell range | AMB midpoint | Premium vs CBN selling |
+|---|---:|---:|---:|---:|
+| USD/NGN | 1365–1370 | 1375 | 1371.25 | +2.62% |
+| GBP/NGN | 1800–1820 | 1820–1850 | 1822.50 | +2.52% |
+| EUR/NGN | 1500–1525 | 1520–1560 | 1526.25 | +1.40% |
 
-## Unresolved issues
-1. Nigeria parallel withheld (above).
-2. SARB carried forward (above).
-3. Kenya text comparison reads "+0.03% versus the 9 Oct reference" because the text renderer's baseline uses the earlier Flagship-dataset Kenya as-of dates (the 13 Oct Flagship Kenya values are really the 12 Oct close, 129.71, as noted in the 14 Oct handoff). Arithmetic is correct (129.79/129.75); the true day-on-day move is +0.06% vs 12 Oct. Codex may adjust.
-4. CBN 14 Oct NFEM average reflects interbank deals only (0 NFEM deals); disclosed in `nigeria_note`.
-5. Image font shows "GH¢" for GH₵ (matches approved Flagship rendering).
+GBP and EUR preserve material cross-source dispersion. Both have `range_flag_acknowledged`, two independent observations, and documented reasons. Premiums recompute as `(parallel buy midpoint / CBN selling rate - 1) × 100`.
 
-## Render / test results
-- `python3 tools/render.py`: passed; `early-2026-10-15.json` validated. Generated site pages were reverted, not staged.
-- Image (python3.13/Pillow): 1080×1350 confirmed; every number, label, date and footnote visually compared with the dataset: matches.
-- Text: figures match the dataset; includes Nigeria, Ghana, Kenya, South Africa, Egypt, FX URL and rates-vary/informational-only disclaimer.
-- Provider-name scan of new files: clean.
+## Render and visual QA
 
-PREPARED — NOT PUBLISHED
+- `python3 tools/render.py`: passed.
+- Social text renderer: passed; five-country structure, effective dates, FX URL, rates-vary language and informational-only disclaimer present.
+- Image renderer: passed at 1080×1350.
+- Visual inspection passed for every official value, range, midpoint, premium, market row, effective date, freshness label, observation window, footnote and URL.
+
+VALIDATED — READY FOR WEBSITE-FIRST PUBLICATION
